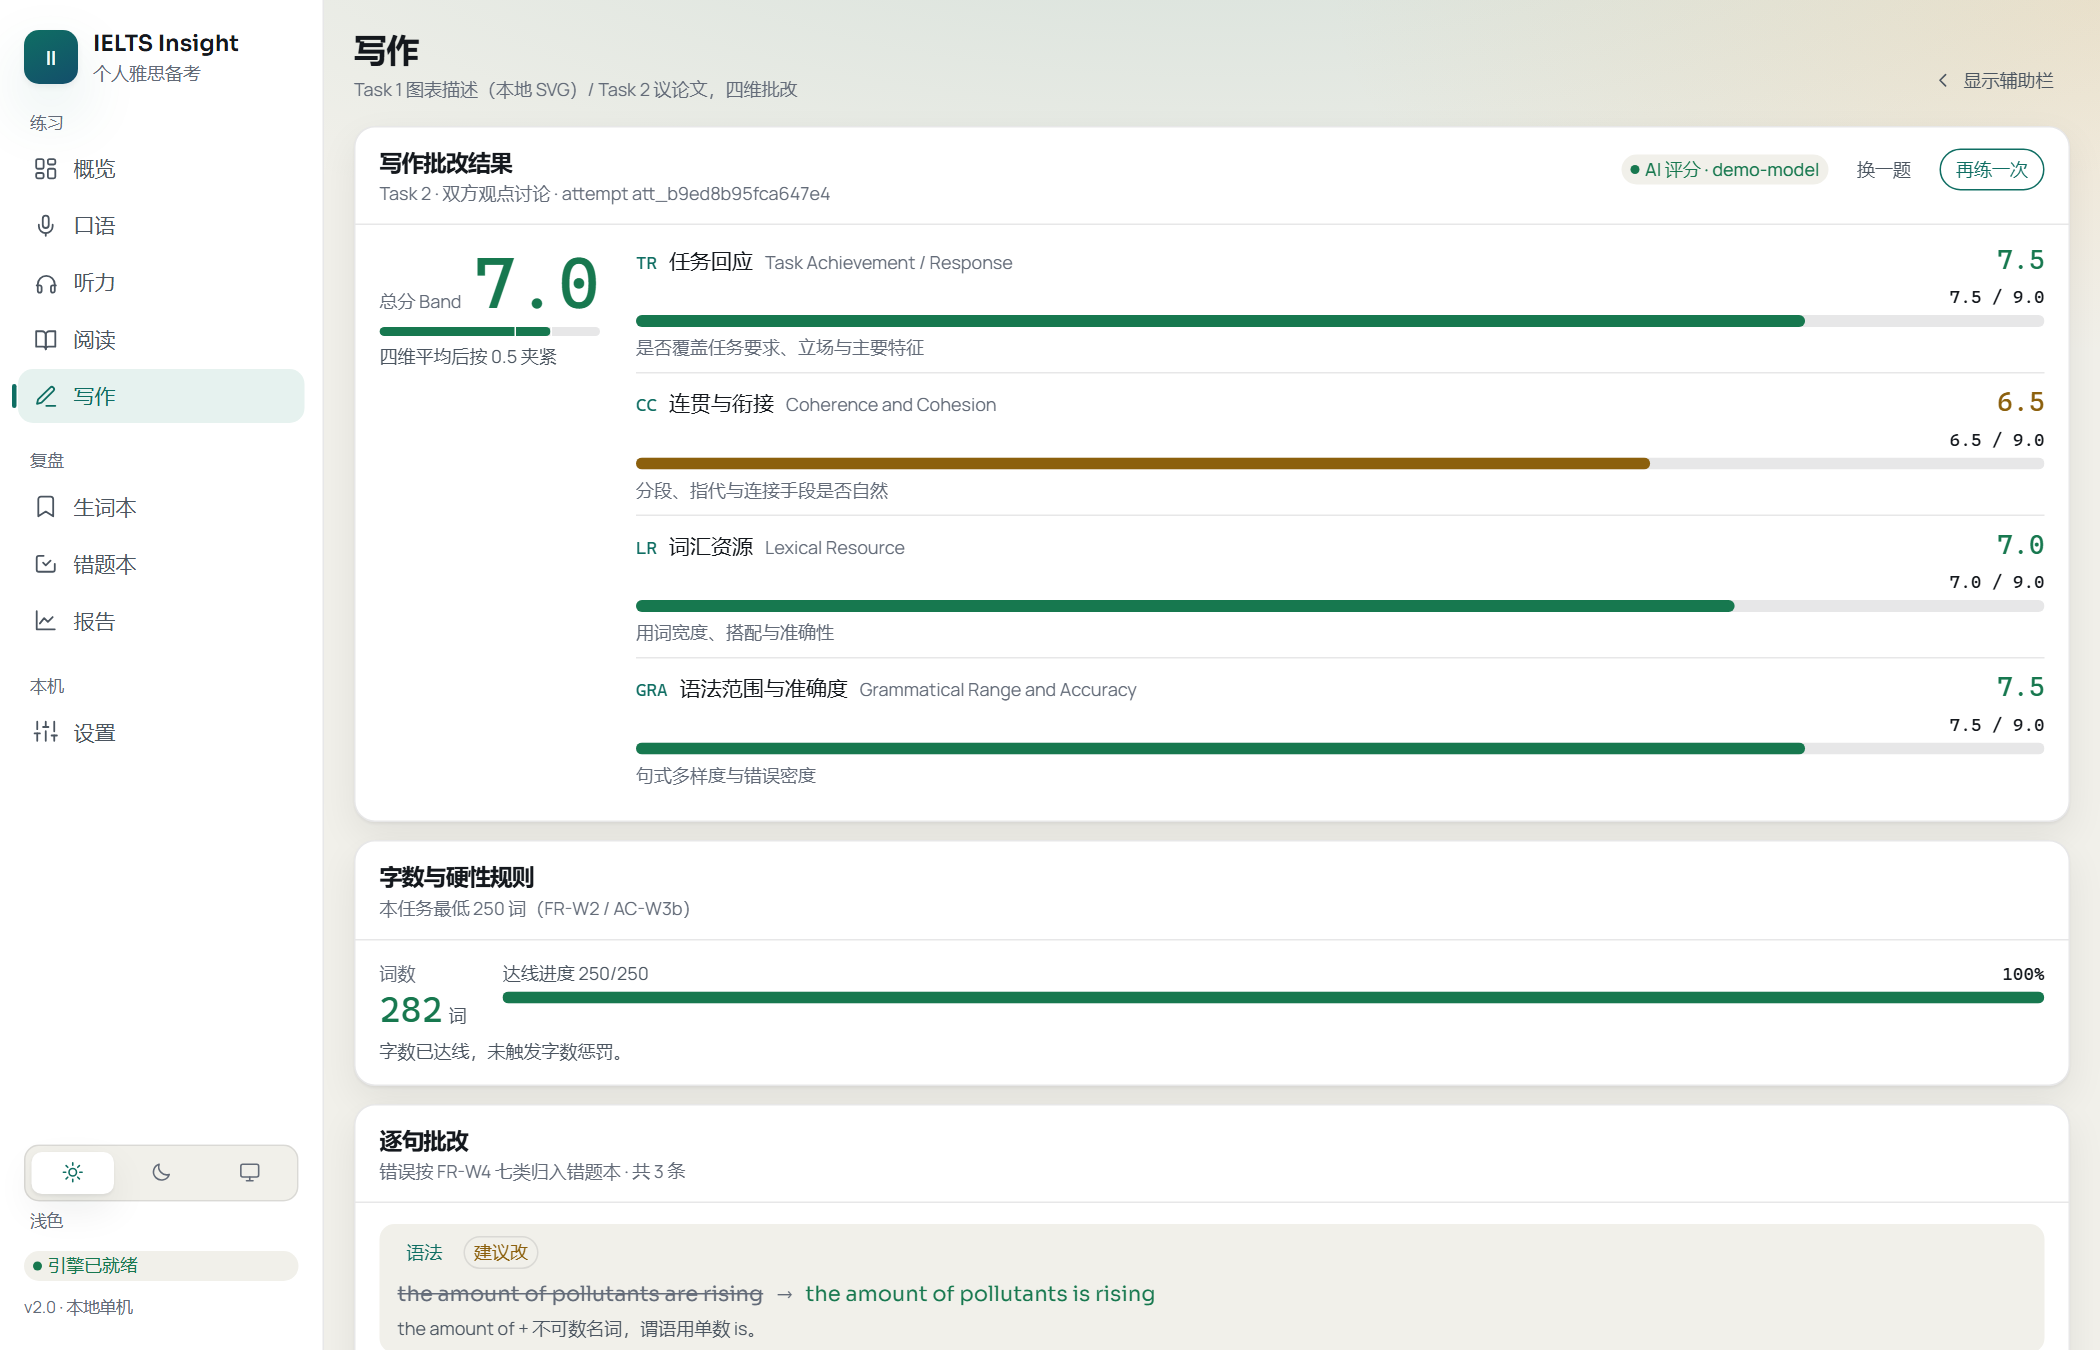
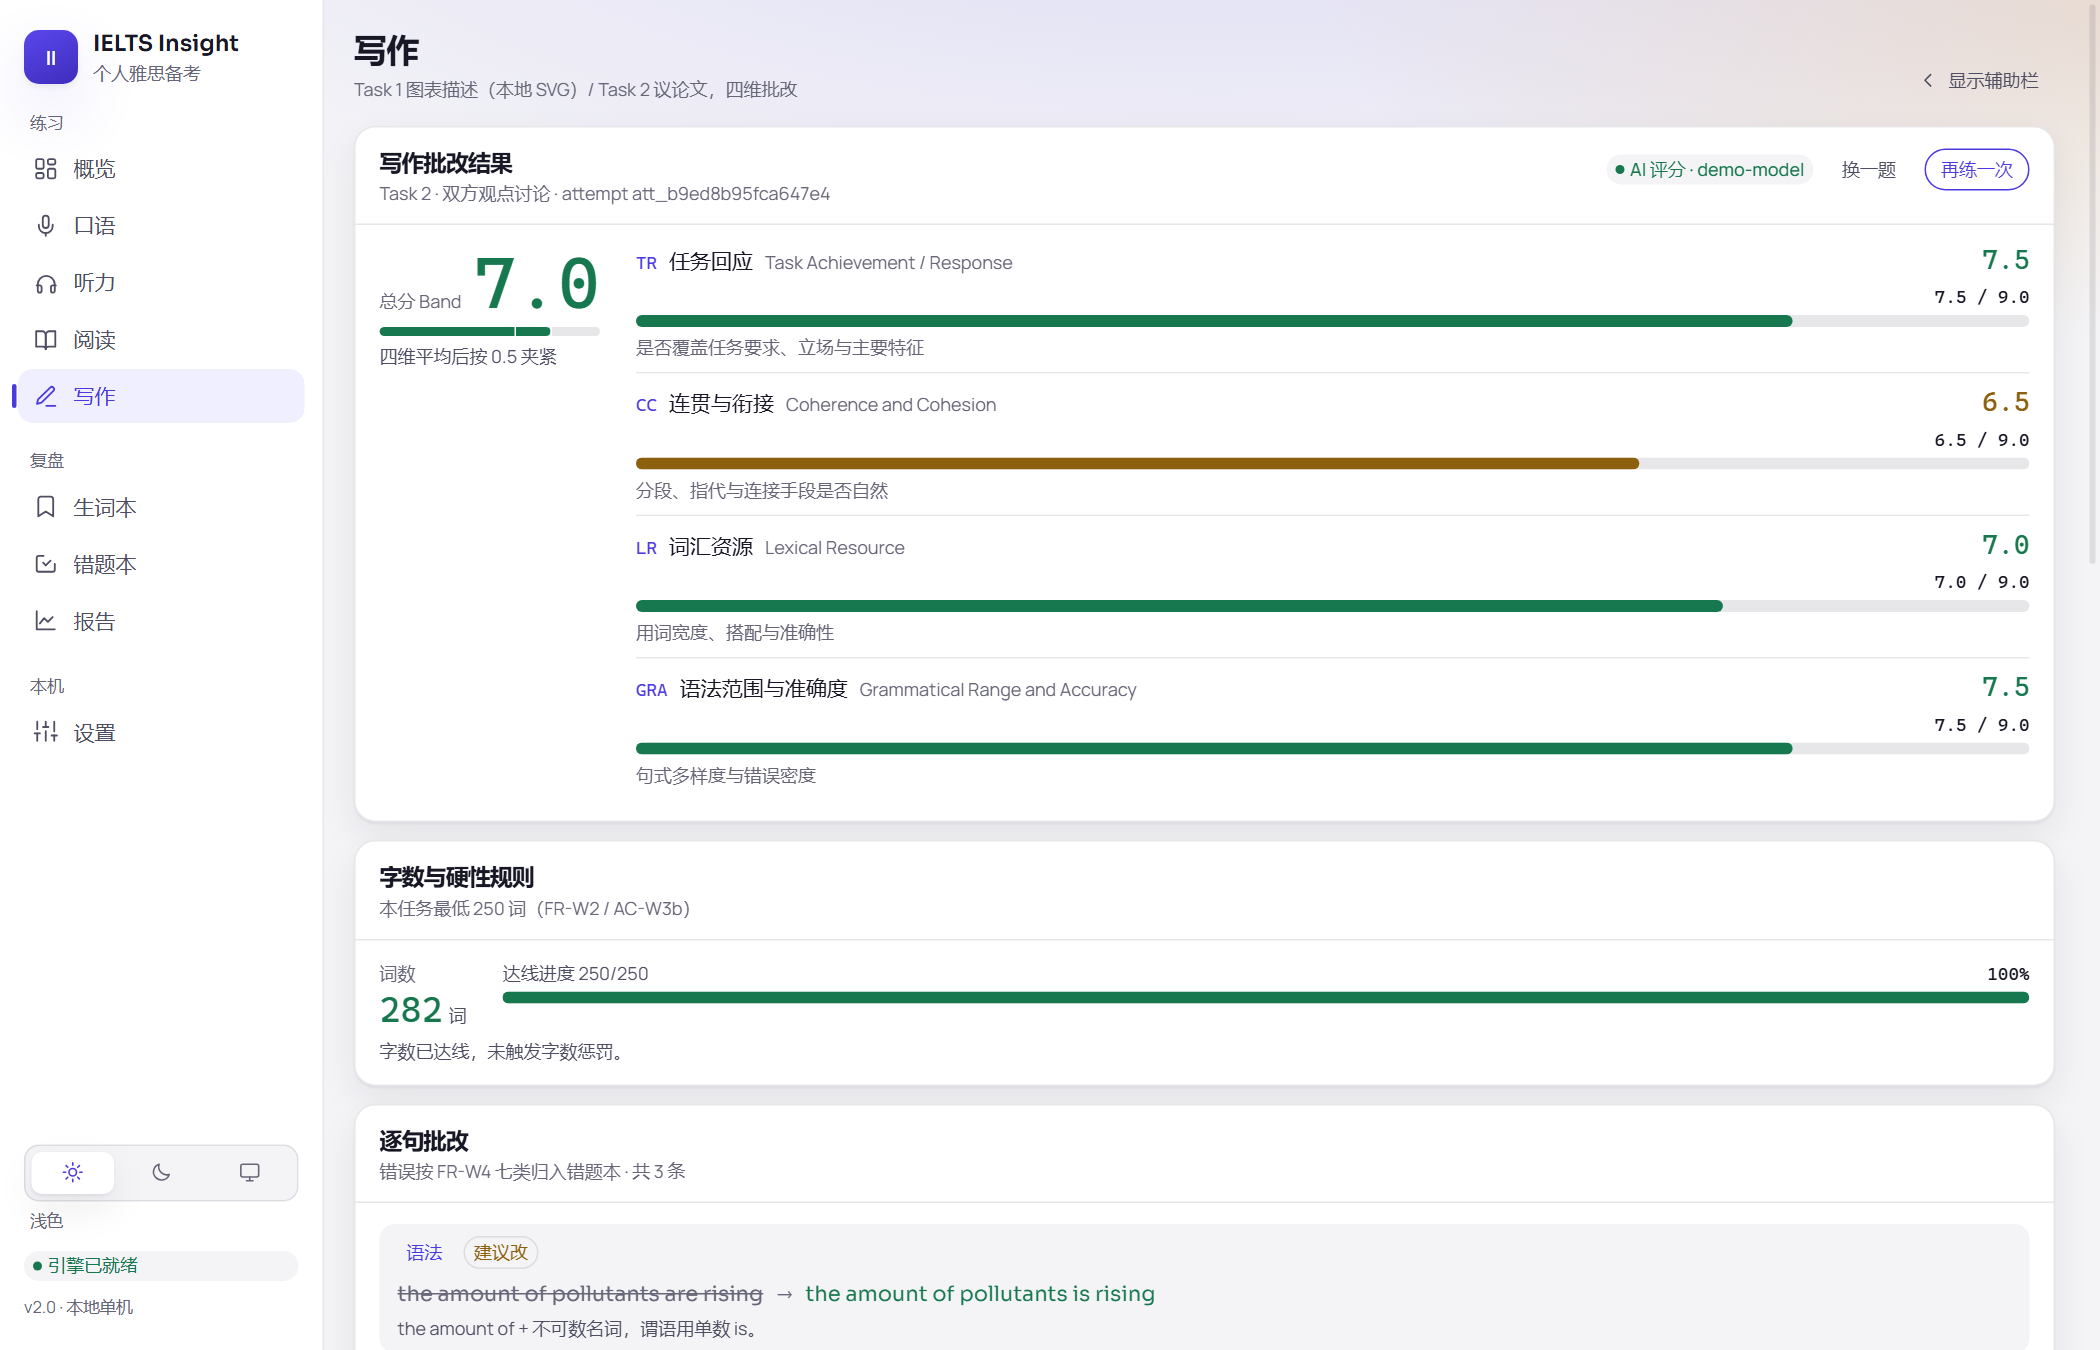
docs: README 换成靛蓝版实拍图并校正计数，契约补 CORS 与竞态两条
- 七张截图全部按当前靛蓝版重拍（实拍管线，非示意图）；头图改用报告屏 Bento 摘要区，
  画廊补上概览浅色与报告深色磁贴两格
- tests badge 625 → 645（前端 340 + 后端 305），质量门表与配色描述（墨绿青 → 靛蓝）同步
- 契约 §CORS 一条改为记录真实默认值与两种 vite host；删掉「偶发红灯源于负载」的错误诊断，
  换成插桩得出的回填竞态根因与修法

diff --git a/README.md b/README.md
@@ -12,13 +12,13 @@
 ![TypeScript](https://img.shields.io/badge/TypeScript-5.6-3178C6?style=flat-square&logo=typescript&logoColor=white)
 ![FastAPI](https://img.shields.io/badge/FastAPI-0.139-009485?style=flat-square&logo=fastapi&logoColor=white)
 ![Python](https://img.shields.io/badge/Python-3.13-3776AB?style=flat-square&logo=python&logoColor=white)
-![tests](https://img.shields.io/badge/tests-625%20passed-brightgreen?style=flat-square)
+![tests](https://img.shields.io/badge/tests-645%20passed-brightgreen?style=flat-square)
 ![offline](https://img.shields.io/badge/works_offline-yes-green?style=flat-square)
 ![telemetry](https://img.shields.io/badge/telemetry-none-blue?style=flat-square)
 ![license](https://img.shields.io/badge/license-MIT-green?style=flat-square)
 ![content](https://img.shields.io/badge/content%20license-CC%20BY--NC%204.0-yellow?style=flat-square)
 
-![概览（浅色主题 · 演示数据）](docs/assets/screenshots/overview-light.png)
+![报告（浅色主题 · Bento 摘要区 · 演示数据）](docs/assets/screenshots/report-bento-light.png)
 
 </div>
 
@@ -63,10 +63,15 @@
 | 阅读：800–950 词原创篇章 + 13 题限时 | 写作：四维批改 + 逐句证据 + 句子升级 |
 | --- | --- |
 | ![阅读练习](docs/assets/screenshots/reading-light.png) | ![写作批改](docs/assets/screenshots/writing-feedback-light.png) |
-| **深色 · 概览**：目标 Band、倒计时、四科当前分与迷你趋势 | **深色 · 报告**：分项 Band、题型正确率、错误类型分布 |
-| ![概览深色](docs/assets/screenshots/overview-dark.png) | ![报告深色](docs/assets/screenshots/report-analytics-dark.png) |
+| **浅色 · 概览**：目标 Band、倒计时、四科当前分与迷你趋势 | **深色 · 概览**：同一屏的夜航配色 |
+| ![概览浅色](docs/assets/screenshots/overview-light.png) | ![概览深色](docs/assets/screenshots/overview-dark.png) |
+| **深色 · 报告摘要**：Bento 磁贴 —— hero 给综合 Band 与综合走势，墨面给累计时长与逐周柱状 | **深色 · 报告明细**：题型正确率、跨练习累积的错误类型与练习时长热力 |
+| ![报告深色磁贴](docs/assets/screenshots/report-bento-dark.png) | ![报告深色明细](docs/assets/screenshots/report-analytics-dark.png) |
 
 阅读屏右上角的 `已恢复上次草稿` 是断点续做：中途关掉窗口，答案还在本地草稿里。
+
+报告摘要区**没有一块磁贴是占位假数**：某科近 8 周没有作答就不渲染那一块（而不是显示 0%），
+分差不足两次就不给「整体 ±0.0」的结论，生词本只有 `created_at` 所以提示老实写成「近 7 天新增」。
 
 ## 核心能力
 
@@ -78,7 +83,7 @@
 | 阅读 | 800–950 词原创篇章 + 13 题，20 分钟限时、段落定位高亮、选词查释义、TFNG / 配对 / 完成句子 / 选择 |
 | 写作 | Task 1 由 `chart.data` 本地 SVG 渲染（饼 / 线 / 柱 / 表 / 动态对比），Task 2 议论文；四维批改 + 证据引用 + 升级表达 + 范文 |
 | 生词本 / 错题本 | 跨模块积累、话题标签、按错误类型筛选、CSV / Anki 导出 |
-| 报告 | Band 趋势（0–9 固定轴）、分项 Band、题型正确率、错误类型分布、近 8 周练习时长热力 |
+| 报告 | Bento 摘要区（综合 Band 与目标、累计时长与逐周柱状、分科正确率、TOP 错误、分项 Band 四维）、Band 趋势（0–9 固定轴）、题型正确率、错误类型分布、近 8 周练习时长热力 |
 | 设置 | 目标分、考试日期、口音与音色语速、录音设备与增益、AI 端点、主题 |
 
 客观题（听力 / 阅读）判分是**纯本地规则**：答案归一化（拼写变体、单词限制、题号与大小写）+ 官方 raw→Band 换算表，不依赖任何网络。
@@ -186,7 +191,7 @@ cd backend ; .\venv\Scripts\python.exe tools\validate_ielts_data.py
 
 ## 设计与主题
 
-两层令牌（[src/index.css](frontend/src/index.css)）：语义名（`--paper` / `--ink-muted` / `--accent` / `--rule` / `--band-*` / `--heat-*` / `--chart-*`）在两套主题里**不变**，只有取值分两套 —— 浅色「晨读」（暖纸面 + 墨绿青 + 琥珀）与深色「夜航」（石墨 + 紫青 + 琥珀）。`useTheme` 解析「浅色 / 深色 / 跟随系统」后只写 `html[data-theme]`，因此切换主题不需要逐屏改色，**组件内出现任何字面色值都算违规**（已核对：全仓 `.tsx` 无 hex / rgba 字面量，规则见 [spec-contracts.md §8](docs/specs/ielts/spec-contracts.md)）。
+两层令牌（[src/index.css](frontend/src/index.css)）：语义名（`--paper` / `--ink-muted` / `--accent` / `--rule` / `--band-*` / `--heat-*` / `--chart-*` / `--hero-*` / `--tile-solid*`）在两套主题里**不变**，只有取值分两套 —— 浅色「晨读」（暖纸面 + 靛蓝 + 琥珀）与深色「夜航」（石墨 + 亮靛 + 琥珀）。`useTheme` 解析「浅色 / 深色 / 跟随系统」后只写 `html[data-theme]`，因此切换主题不需要逐屏改色，**组件内出现任何字面色值都算违规**（已核对：全仓 `.tsx` 无 hex / rgba 字面量，规则见 [spec-contracts.md §8](docs/specs/ielts/spec-contracts.md)）。
 
 对比度是**取值规则**而不是事后调优：任何当文字用的 token 与其最坏落点（正文小字落在 `--paper-sunken` 上，不是白卡上）必须 ≥ 4.5:1。图表网格线、色阶、骨架屏各有专用 token，不许拿分隔线凑。逐条数值见 [spec-contracts.md §8](docs/specs/ielts/spec-contracts.md)。
 
@@ -196,9 +201,9 @@ cd backend ; .\venv\Scripts\python.exe tools\validate_ielts_data.py
 
 | 门 | 当前状态 |
 | --- | --- |
-| `npx tsc --noEmit` | 无错误 |
-| 前端 `cd frontend ; npm test` | **31 个文件 / 328 个用例全通过**（vitest + jsdom + msw 契约测试） |
-| 后端 `cd backend ; .\venv\Scripts\python.exe -m pytest` | **297 个用例全通过**（约 6s） |
+| `npx tsc -b` | 无错误 |
+| 前端 `cd frontend ; npm test` | **32 个文件 / 340 个用例全通过**（vitest + jsdom + msw 契约测试） |
+| 后端 `cd backend ; .\venv\Scripts\python.exe -m pytest` | **305 个用例全通过**（约 7s） |
 
 后端测试通过 `IELTS_DB_PATH` / `IELTS_TTS_CACHE_DIR` / `IELTS_ONLINE` 指向临时目录与离线模式，**绝不写**真实本地库（CONSTITUTION §6）。真实 LLM 质量测试标 `@pytest.mark.integration`，默认跳过，需 `RUN_INTEGRATION=1`。`pyinstaller_entry.py` 只是打包入口，测试进程不经过它。
 
@@ -232,7 +237,10 @@ cd backend ; .\venv\Scripts\python.exe tools\validate_ielts_data.py
 - 应用给的是 **AI 估计分**，不是官方成绩；口语发音分依赖 Whisper 转写质量（转写置信度 <0.5 时界面会提示重录或改用文本）。
 - 题库只有 36 套（内容生产是本项目最慢的一环），刷完需要自己扩；扩题只需往 `backend/app/data/ielts/<module>/` 放 JSON 并通过校验脚本。
 - 两处**首次**需要联网（之后缓存本机）：听力音频由 edge-tts 现合成（TTS 缓存目录不随包分发），口语转写用的 whisper `base.pt`（约 145 MB）首次加载时从官方源下载。在那之前对应功能会走可见降级（听力「看原文精读」、口语键盘输入）。
-- 前端全量测试在机器高负载下偶发 `findBy*` 超时红灯（jsdom + msw 回调被挤），根因是 `src/test/setup.ts` 未挂全局 RTL cleanup；已把 `asyncUtilTimeout` 放宽到 4s，未做全局 cleanup（9 个测试文件各自显式调用了 `cleanup()`，需逐个核对再挂全局）。
+- 设置屏的用例曾约 1/8 概率偶发红灯。根因**不是**机器负载、也不是缺全局 RTL cleanup（此前这条写错了），
+  而是测试助手的竞态：`openSettings()` 只等标签出现，而 GET 回填时 `DraftField` 的 `[value]` effect
+  会把草稿刷回服务端值，抢在它前面写入的断言（「未保存」徽标、越界 alert、密钥「已保存」提示）就被覆盖。
+  助手现在等回填落地才返回，单文件连跑 12 次全绿。教训：**这类「填了值就断言」的用例要等数据落地，别只等元素出现**。
 - `backend/app/data/dictionary.json`（392 词条：音标 + 中文释义 + 难度）的**来源未在本仓库留档**，无法确认是自写还是从公开词典整理而来，因此 [LICENSE-CONTENT.md §3](LICENSE-CONTENT.md) 未对它声明任何版权主张；要复用到发布包请先自行核对原始许可。
 
 ## 给贡献者：先读这三个文件

diff --git a/docs/specs/ielts/spec-contracts.md b/docs/specs/ielts/spec-contracts.md
@@ -539,7 +539,11 @@ Wave 1 交付时 agent 提出的契约含糊点，逐条定稿。**Wave 2 所有
   而 `.sql` 不是 `.py`，PyInstaller 不会随模块收集）→ **打包版完全起不来，端口 8765 永不绑定**。
   修法：`datas` 增加 `("app/db/schema.sql", "app/db")`。这条是"构建成功 ≠ 能运行"的实例（CONSTITUTION §7-5）。
 - **顺带清掉的死数据**：`app/data/scenes_free.json` / `scenes_pro.json` 全仓零引用（旧付费剧本内容，宪法禁止再随包分发），已删除。
-- 冻结包 CORS 实测为 `DEBUG=False` → `['tauri://localhost','http://tauri.localhost','https://tauri.localhost','http://localhost:5173']`，符合契约。
+- CORS 名单由 `app.main.cors_allow_origins(debug)` 给出，`Settings.DEBUG` **默认 False**（此前默认 True，
+  等于把通配当成出厂值；打包脚本里没有任何地方设过 `DEBUG`，所以旧实测的 `DEBUG=False` 是靠启动环境碰上的，不是代码保证）。
+  默认放行 `['tauri://localhost','http://tauri.localhost','https://tauri.localhost','http://localhost:5173','http://127.0.0.1:5173']`
+  —— 两种 vite host 写法都要收，否则收紧默认值会顺手打断开发链路。要通配请显式 `DEBUG=true`。
+  行为由 `tests/test_cors_policy.py` 钉住（含「陌生 origin 的预检拿不到 allow-origin 头」）。
 - 体积：`dist/backend.exe` 单文件 **347MB**（上一版 249MB；`collect_all` 收了 whisper/av/tiktoken/torch）。首启解包到 `%TEMP%\_MEIxxxx` 约需 20–30s 才绑定端口，
   期间前端由 `useBackendReady()` 显示「正在启动本地引擎」（AC-G1），不是白屏。若体积/启动时间成为问题，可考虑 `--onedir`（待用户决定，未擅自改）。
 - 三个 `.ps1` 必须以 **UTF-8 with BOM** 保存，否则 Windows PowerShell 5.1 解析中文报错（pkg 已踩过并修好，后续别再存成无 BOM）。
@@ -594,9 +598,13 @@ key 由调用方 shell 环境变量提供（`key_source: "env"`）。**结论都
   `DraftField`（Field 内联 alert），同一句错误读两遍。改为只在字段内联显示，密钥**清除**失败的 Toast 保留。
 - **`/health` 状态行被 JSX 注释拆成多个文本节点（已修）**：`… · TTS 可用 ·\nAI 配置 …` 中间夹注释会让
   `·` 与「AI 配置」之间的那个空格在编译后消失，实测文本为 `… ·AI 配置 …`。抽成 `healthSummary()` 返回单条字符串。
-- **gate 2 满负载时偶发红灯（已修，不改断言）**：29 个文件并发 + dev server 占核时 `findBy*` 的 1s 默认上限会饿死，
-  同一份代码单跑必绿、全跑偶发失败。`src/test/setup.ts` 里 `configure({ asyncUtilTimeout: 4000 })`：
-  只放宽等待上限，断言与期望值一个都没动。
+- **设置屏用例的偶发红灯（已修，此前诊断是错的）**：原先记成「满负载饿死 `findBy*`，单跑必绿」——
+  实测**不成立**：`SettingsPage.test.tsx` 单独跑同样约 1/8 概率红，且红在三个不同用例之间跳。
+  插桩给出确定证据：红的那次 `writeInto('setting-daily-goal','90')` 之后输入框是 `60`，
+  即用户填的草稿被迟到的 GET 回填覆盖（`DraftField` 的 `[value]` effect 会把草稿刷成服务端值）。
+  修法在测试助手：`openSettings()` 除了等标签出现，还要等回填落地（`daily-goal` 是 number、
+  `target-band` 是 text，两个锚点各盯一类输入）。修后单文件连跑 12 次全绿。
+  `asyncUtilTimeout: 4000` 保留（它当初确实解掉了另一类跨文件并发的超时），但**别把它当根因**。
 - **本次补的测试**（dead agent 遗留范围由主控吸收）：`settings/SettingsPage.test.tsx` 15 例、
   `shared/VocabBook.test.tsx`（含「改备注必须整行回传，否则后端 upsert 清空 context/来源/标签」）、
   `shared/ReviewBook.test.tsx`（首屏零写请求、「已掌握」只手动、删除需确认）、`report/format.test.ts`。
